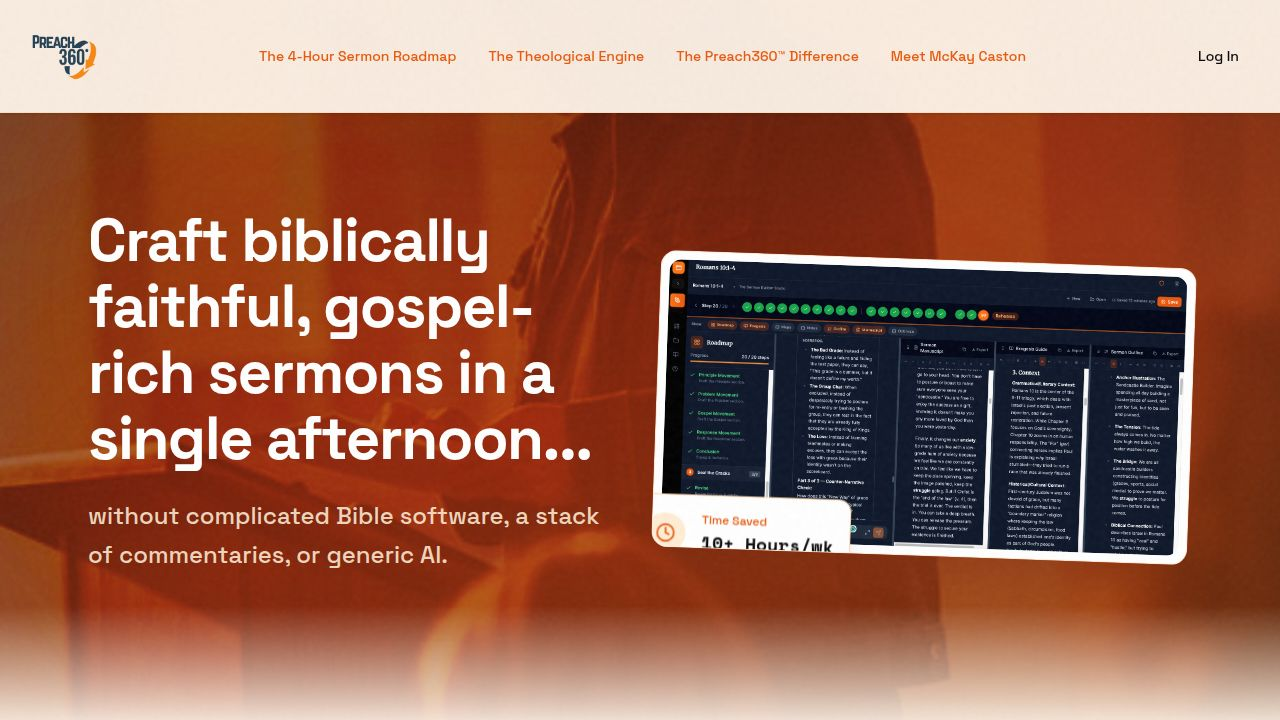
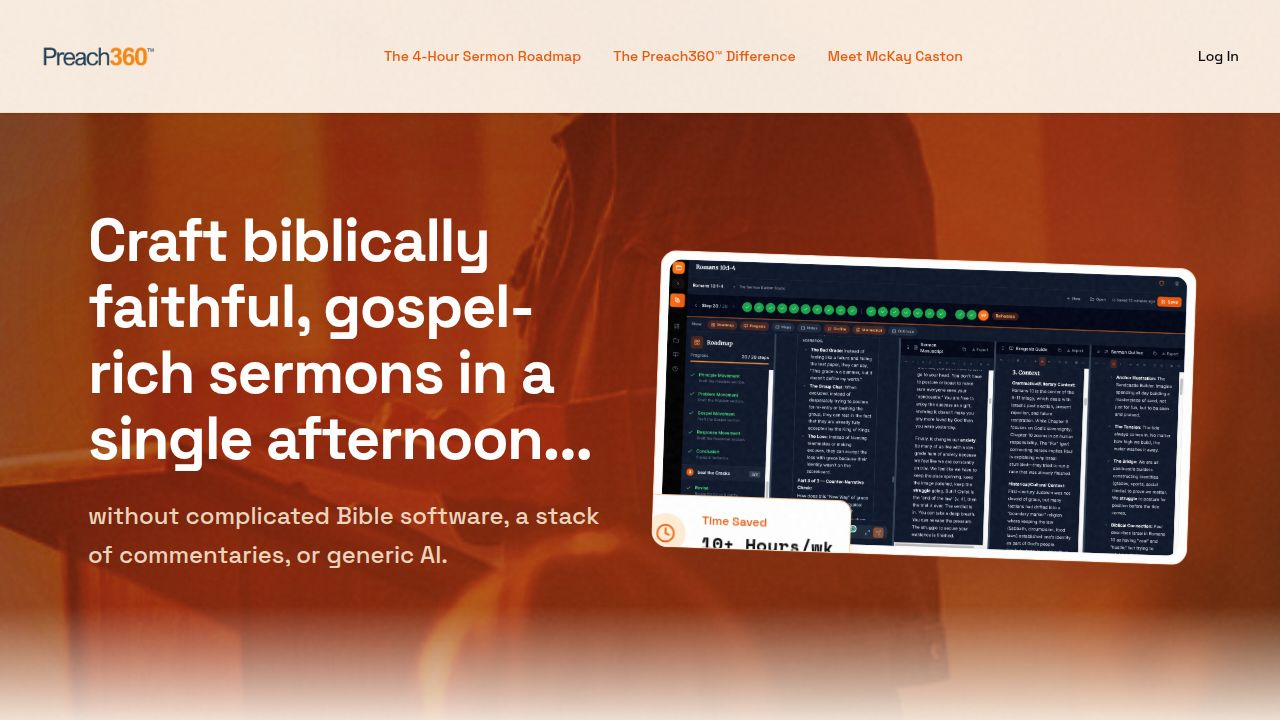
Remove theological engine section and update navigation
Removes the 'Theological Engine' section from the homepage and updates the navbar component to reflect the change. Also cleans up unused imports in home.tsx.

Replit-Commit-Author: Agent
Replit-Commit-Session-Id: b40ebc65-716c-42ff-8a29-f355e8ec55d6
Replit-Commit-Checkpoint-Type: full_checkpoint
Replit-Commit-Event-Id: 645f8075-aac6-4f29-b278-02ed2080db04
Replit-Commit-Screenshot-Url: https://storage.googleapis.com/screenshot-production-us-central1/52b2e9a9-1aca-4f31-b761-2a0e85fbc987/b40ebc65-716c-42ff-8a29-f355e8ec55d6/Ro2zqr2
Replit-Helium-Checkpoint-Created: true

diff --git a/client/src/pages/home.tsx b/client/src/pages/home.tsx
@@ -6,7 +6,6 @@ import { Link } from "wouter";
 import roadmapProgress from "@assets/image_1772636322550.png";
 import aboutCreatorImage from "@assets/image_1772656745459.png";
 import coachImage from "@assets/image_1773084579554.png";
-import engineImage from "@assets/image_1773081813789.png";
 import foundationImage from "@assets/image_1773317291845.png";
 import structureImage from "@assets/image_1773317393134.png";
 import polishingImage from "@assets/image_1773317517502.png";
@@ -233,48 +232,6 @@ export default function Home() {
               "I've had more positive comments on my sermons this year than all my years of preaching combined."
             </p>
             <p className="text-brand-600 font-bold">— Rodney B.</p>
-          </div>
-        </div>
-      </section>
-
-      {/* THE ENGINE */}
-      <section className="pt-16 md:pt-24 pb-16 md:pb-24 bg-brand-50/50" id="engine">
-        <div className="container mx-auto px-4 max-w-5xl">
-          <div className="text-center mb-16">
-            <h2 className="text-3xl md:text-5xl font-bold font-drama text-foreground mb-6">The Theological Engine</h2>
-            <div className="text-lg md:text-xl text-muted-foreground leading-relaxed max-w-4xl mx-auto space-y-6">
-              <p className="text-foreground">
-                The core of our web app is built on a distinctively theological foundation called the PPGR Preaching System® (Principle, Problem, Gospel, Response).
-              </p>
-            </div>
-          </div>
-
-          <div className="grid md:grid-cols-2 gap-12 items-center mt-16">
-            <div className="space-y-6">
-              <div className="bg-card border-l-4 border-blue-500 p-6 rounded-r-xl shadow-sm">
-                <h3 className="font-bold text-lg text-foreground mb-1">PRINCIPLE</h3>
-                <p className="text-muted-foreground">Creation—what is true</p>
-              </div>
-              <div className="bg-card border-l-4 border-green-500 p-6 rounded-r-xl shadow-sm">
-                <h3 className="font-bold text-lg text-foreground mb-1">PROBLEM</h3>
-                <p className="text-muted-foreground">Fall—how and why the flesh resists what is true</p>
-              </div>
-              <div className="bg-card border-l-4 border-lime-500 p-6 rounded-r-xl shadow-sm">
-                <h3 className="font-bold text-lg text-foreground mb-1">GOSPEL</h3>
-                <p className="text-muted-foreground">Redemption—how Jesus redeems our resistance</p>
-              </div>
-              <div className="bg-card border-l-4 border-yellow-500 p-6 rounded-r-xl shadow-sm">
-                <h3 className="font-bold text-lg text-foreground mb-1">RESPONSE</h3>
-                <p className="text-muted-foreground">Restoration—new life in the Spirit</p>
-              </div>
-            </div>
-            <div className="relative rounded-2xl overflow-hidden shadow-xl bg-white p-4">
-              <img 
-                src={engineImage} 
-                alt="PPGR Preaching System Framework" 
-                className="w-full h-auto object-contain"
-              />
-            </div>
           </div>
         </div>
       </section>

diff --git a/client/src/components/navbar.tsx b/client/src/components/navbar.tsx
@@ -16,7 +16,6 @@ export function Navbar() {
 
         <div className="hidden md:flex items-center gap-8 text-sm font-medium text-muted-foreground">
           <a href="#roadmap" className="hover:text-foreground transition-colors">The 4-Hour Sermon Roadmap</a>
-          <a href="#engine" className="hover:text-foreground transition-colors">The Theological Engine</a>
           <a href="#system" className="hover:text-foreground transition-colors">The Preach360™ Difference</a>
           <a href="#about" className="hover:text-foreground transition-colors">Meet McKay Caston</a>
         </div>
